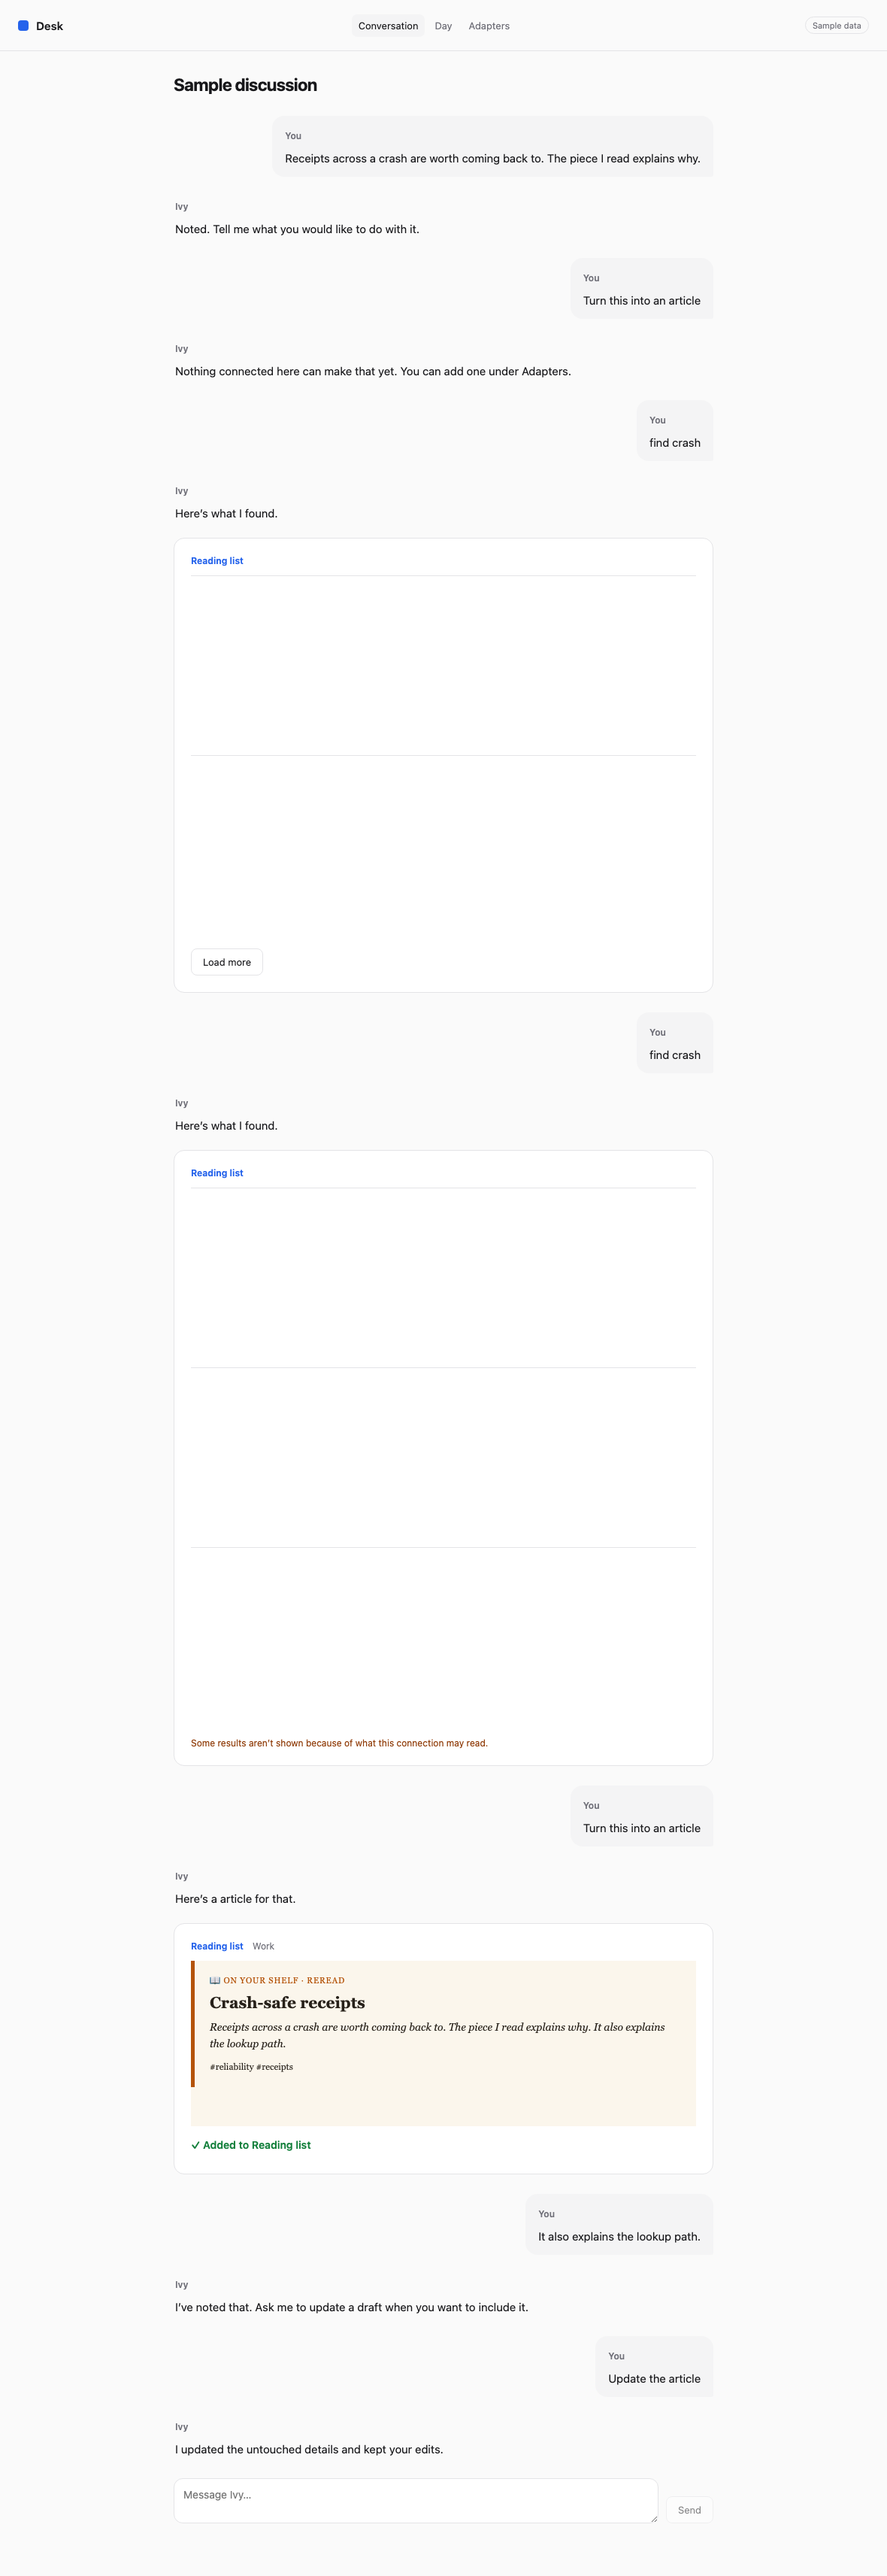
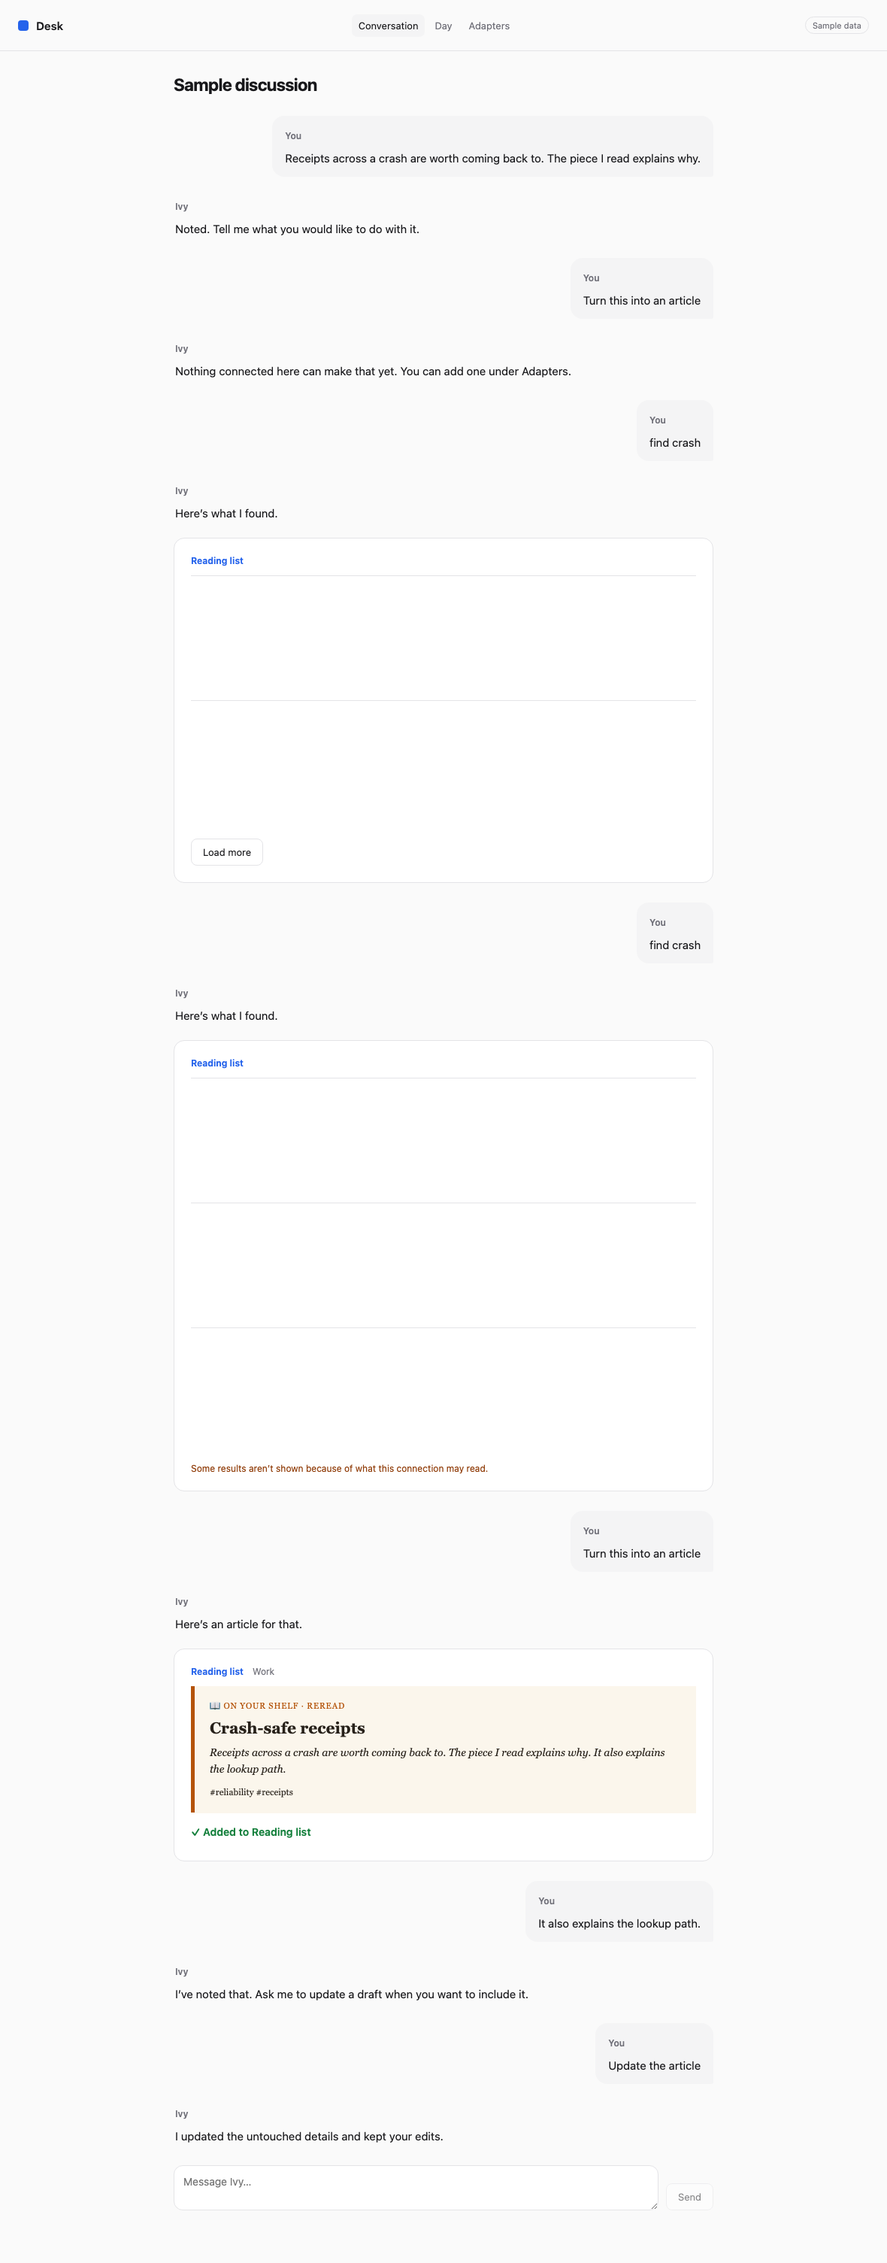
fix(prototype): show the safe rendering until a view answers, and size frames to content
Throwaway. Refs #3292. Generic shell behaviour plus a stricter per-frame probe.

diff --git a/scripts/probe-desk-extension.ts b/scripts/probe-desk-extension.ts
@@ -70,7 +70,12 @@ if (phase === "all" || phase === "a") {
   await page.locator('[data-group="sample.reading"] iframe').first().waitFor();
   await page.waitForTimeout(500);
   const customHeadings = await Promise.all((await adapterFrames("sample.reading")).map(frame => frame.locator("[data-custom-view]").count().catch(() => 0)));
-  check("query results render in the adapter's own sandboxed view", customHeadings.some(count => count > 0) && await page.locator('[data-rendered-by="adapter"]').count() === 2, customHeadings);
+  const frameHeights = await page.locator('[data-group="sample.reading"] iframe').evaluateAll(frames => frames.map(frame => frame.clientHeight));
+  check("every query result renders in the adapter's own sandboxed view", customHeadings.length === 2 && customHeadings.every(count => count === 1) && await page.locator('[data-rendered-by="adapter"]').count() === 2, customHeadings);
+  check("each frame sizes to its content", frameHeights.every(height => height > 60 && height < 220), frameHeights);
+  await page.locator('[data-group="sample.reading"]').last().scrollIntoViewIfNeeded();
+  await page.waitForTimeout(200);
+  await page.locator('[data-group="sample.reading"]').last().screenshot({ path: join(output, "query-custom-view-card.png") });
   check("frame is sandboxed without same-origin", (await page.locator('[data-group="sample.reading"] iframe').first().getAttribute("sandbox")) === "allow-scripts");
   await shot("query-custom-view");
   await pane("Adapters");
@@ -107,6 +112,9 @@ if (phase === "all" || phase === "a") {
   await approve.dblclick();
   await card.locator('[data-rendered-by="adapter"]').waitFor({ timeout: 5000 });
   await page.waitForTimeout(500);
+  await card.scrollIntoViewIfNeeded();
+  await page.waitForTimeout(200);
+  await card.screenshot({ path: join(output, "saved-custom-view-card.png") });
   check("double approval produces one owner call", (await diagnostics()).ownerCalls === 1, (await diagnostics()).ownerCalls);
   check("saved result renders the owner's readback in the adapter's own view", (await page.frames().some(frame => frame !== page.mainFrame())) && await card.locator('[data-rendered-by="adapter"] iframe').getAttribute("data-frame-state") === "ready");
   check("host-owned confirmation shows the saved state", (await card.textContent())?.includes("Added to Reading list") === true);
@@ -192,6 +200,9 @@ if (phase === "all" || phase === "b") {
   await repair.locator('[data-rendered-by="adapter"] iframe[data-frame-state="ready"]').waitFor({ timeout: 5000 });
   check("the second adapter saves and shows its own different view", (await repair.textContent())?.includes("Added to Workshop") === true);
   await page.waitForTimeout(400);
+  await repair.scrollIntoViewIfNeeded();
+  await page.waitForTimeout(200);
+  await repair.screenshot({ path: join(output, "second-saved-card.png") });
   await shot("second-saved");
 
   await bringUp("tide-tables");
@@ -236,6 +247,7 @@ if (phase === "all" || phase === "b") {
   for (const sample of ["crashing-view", "hostile-view"]) await bringUp(sample);
   const ownerCallsBeforeHostile = (await diagnostics()).ownerCalls;
   await say("find Prop");
+  check("a view that has not answered yet shows the safe host rendering, not a blank box", (await page.locator('[data-group="sample.crash"]').last().textContent())?.includes("Prop from Crashing view") === true);
   await page.waitForTimeout(3200);
   const groups = page.locator('[data-group^="sample.crash"], [data-group^="sample.hostile"]');
   check("a crashing or hostile view falls back to the safe host rendering", await groups.count() >= 2 && await page.locator('[data-group="sample.crash"] [data-rendered-by="host"]').count() > 0 && await page.locator('[data-group="sample.hostile"] [data-rendered-by="host"]').count() > 0, await groups.allTextContents());

diff --git a/src/surface/mc/dashboard-v2/desk-extension-prototype-main.tsx b/src/surface/mc/dashboard-v2/desk-extension-prototype-main.tsx
@@ -10,7 +10,7 @@ const FRAME_READY_MS = 2500;
 const MAX_FRAME_HEIGHT = 640;
 const FRAME_MESSAGE_TYPES = new Set(["ready", "resize", "renderer:error", "host:navigate"]);
 
-function AdapterFrame({ entry, projection, onFail, run }: { entry: any; projection: unknown; onFail: (reason: string) => void; run: Run }) {
+function AdapterFrame({ entry, projection, onFail, onReady, run }: { entry: any; projection: unknown; onFail: (reason: string) => void; onReady: () => void; run: Run }) {
   const frame = useRef<HTMLIFrameElement>(null);
   const [height, setHeight] = useState(220);
   const [state, setState] = useState("mounting");
@@ -29,7 +29,7 @@ function AdapterFrame({ entry, projection, onFail, run }: { entry: any; projecti
       if (!data || data.instance !== instance || data.release !== entry.releaseDigest || data.protocol !== PROTOCOL || !FRAME_MESSAGE_TYPES.has(type)) { clearTimeout(timer); fail(`forged-or-unknown:${type}`); return; }
       if (type === "ready") {
         if (ready) { fail("duplicate-ready"); return; }
-        ready = true; clearTimeout(timer); setState("ready");
+        ready = true; clearTimeout(timer); setState("ready"); onReady();
         channel.port1.postMessage({ type: "host:projection", ...identity, projection, theme: matchMedia("(prefers-color-scheme: dark)").matches ? "dark" : "light" });
       } else if (type === "resize" && typeof data.height === "number") setHeight(Math.min(Math.max(data.height, 60), MAX_FRAME_HEIGHT));
       else if (type === "renderer:error") fail("renderer-error");
@@ -38,7 +38,7 @@ function AdapterFrame({ entry, projection, onFail, run }: { entry: any; projecti
     channel.port1.start();
     target.postMessage({ type: "desk:init", ...identity }, "*", [channel.port2]);
   };
-  return <iframe ref={frame} data-frame-state={state} data-adapter={entry.adapterId} title="Adapter view" sandbox="allow-scripts" referrerPolicy="no-referrer" src={entry.src} onLoad={load} style={{ width: "100%", height, border: 0, display: "block" }} />;
+  return <iframe ref={frame} data-frame-state={state} data-adapter={entry.adapterId} title="Adapter view" sandbox="allow-scripts" referrerPolicy="no-referrer" src={entry.src} onLoad={load} style={{ width: "100%", height: state === "ready" ? height : 0, border: 0, display: "block" }} />;
 }
 
 function viewFor(view: View, adapterId: string, objectType: string): any {
@@ -48,9 +48,9 @@ function viewFor(view: View, adapterId: string, objectType: string): any {
 
 function ObjectResult({ view, adapterId, objectType, object, objectRef, fallback, run }: { view: View; adapterId: string; objectType: string; object: unknown; objectRef: unknown; fallback: React.ReactNode; run: Run }) {
   const entry = viewFor(view, adapterId, objectType);
-  const [failed, setFailed] = useState(false);
-  if (!entry || failed) return <div data-rendered-by="host">{fallback}</div>;
-  return <div data-rendered-by="adapter"><AdapterFrame entry={entry} projection={{ view: "result", objectType, object, ref: objectRef }} onFail={() => { setFailed(true); }} run={run} /></div>;
+  const [phase, setPhase] = useState<"waiting" | "ready" | "failed">("waiting");
+  if (!entry || phase === "failed") return <div data-rendered-by="host">{fallback}</div>;
+  return <div data-rendered-by={phase === "ready" ? "adapter" : "host-until-ready"}>{phase === "waiting" && fallback}<AdapterFrame entry={entry} projection={{ view: "result", objectType, object, ref: objectRef }} onFail={() => { setPhase("failed"); }} onReady={() => { setPhase("ready"); }} run={run} /></div>;
 }
 
 const display = (value: unknown, draft: any): string => {

diff --git a/src/conversations/domain-adapters/extension-prototype/host.ts b/src/conversations/domain-adapters/extension-prototype/host.ts
@@ -29,6 +29,7 @@ const refKey = (ref: ObjectReference): string => `${ref.adapterId}|${ref.connect
 const isReference = (value: Json): value is ObjectReference => !!value && typeof value === "object" && "canonicalId" in value;
 const sha = (value: string): string => createHash("sha256").update(value).digest("hex");
 const iso = (): string => new Date().toISOString();
+const withArticle = (noun: string): string => `${/^[aeiou]/i.test(noun) ? "an" : "a"} ${noun}`;
 const STALE_AFTER_MS = 10 * 60_000;
 const DEFAULT_PAGE_TIMEOUT_MS = 10_000;
 
@@ -248,7 +249,7 @@ export class ExtensionHost {
     if (!matches.length) { this.say("Ivy", "Nothing connected here can make that yet. You can add one under Adapters."); return; }
     const withAction = matches.flatMap(match => { const capability = match.pkg.manifest.declaration.capabilities.find(entry => entry.kind === "action" && entry.objectTypes.includes(match.objectType)); return capability ? [{ ...match, capabilityId: capability.capabilityId }] : []; });
     const chosen = withAction[0];
-    if (!chosen) { const match = matches[0]; this.say("Ivy", `${match?.pkg.manifest.declaration.label ?? "That"} can be read here, but it can’t make a ${match?.label.toLowerCase() ?? "new one"} from a conversation.`); return; }
+    if (!chosen) { const match = matches[0]; this.say("Ivy", `${match?.pkg.manifest.declaration.label ?? "That"} can be read here, but it can’t make ${match ? withArticle(match.label.toLowerCase()) : "a new one"} from a conversation.`); return; }
     if (withAction.length > 1) { this.say("Ivy", `More than one connected source has a ${chosen.label.toLowerCase()}. Which did you mean: ${withAction.map(entry => entry.pkg.manifest.declaration.label).join(" or ")}?`); return; }
     const adapterId = chosen.pkg.manifest.declaration.adapterId;
     if (!this.live(adapterId)) { this.say("Ivy", `${chosen.pkg.manifest.declaration.label} isn’t connected yet. You can connect it under Adapters.`); return; }
@@ -259,7 +260,7 @@ export class ExtensionHost {
     const generated = this.generate(chosen.pkg, binding, spec, [], {});
     const draft: Draft = { id: randomUUID(), adapterId, adapterLabel: chosen.pkg.manifest.declaration.label, objectLabel: chosen.label, objectType: chosen.objectType, capabilityId: chosen.capabilityId, inputSchemaRef, spec, fields: generated.fields, edited: [], revision: 1, status: "proposed", stale: false, alternatives: generated.alternatives, automatic: !!binding, origins: generated.origins };
     this.state.drafts[draft.id] = draft;
-    this.say("Ivy", binding ? `Here’s a ${chosen.label.toLowerCase()} for that.` : `I can’t draft this one for you, but you can fill in the ${chosen.label.toLowerCase()} yourself.`, { kind: "draft", id: draft.id });
+    this.say("Ivy", binding ? `Here’s ${withArticle(chosen.label.toLowerCase())} for that.` : `I can’t draft this one for you, but you can fill in the ${chosen.label.toLowerCase()} yourself.`, { kind: "draft", id: draft.id });
   }
 
   private async refreshDraft(text: string): Promise<void> {

diff --git a/docs/prototypes/desk-extension/packages/duplicate-identity/view.js b/docs/prototypes/desk-extension/packages/duplicate-identity/view.js
@@ -14,7 +14,7 @@ const render = ({ projection, theme }) => {
   put(card, "h1", object.title, "font-size:21px;line-height:1.3;margin:8px 0");
   if (object.summary) put(card, "p", object.summary, "margin:0 0 10px;font-style:italic");
   if (object.tags?.length) put(card, "div", object.tags.map(tag => `#${tag}`).join("  "), "font-size:12px");
-  send("resize", { height: Math.ceil(document.documentElement.scrollHeight) });
+  send("resize", { height: Math.ceil(root.getBoundingClientRect().height) });
 };
 window.addEventListener("message", event => {
   if (event.source !== parent || port || event.data?.type !== "desk:init" || event.data.protocol !== "1.0.0" || event.ports.length !== 1) return;

diff --git a/docs/prototypes/desk-extension/packages/reading-list/view.js b/docs/prototypes/desk-extension/packages/reading-list/view.js
@@ -14,7 +14,7 @@ const render = ({ projection, theme }) => {
   put(card, "h1", object.title, "font-size:21px;line-height:1.3;margin:8px 0");
   if (object.summary) put(card, "p", object.summary, "margin:0 0 10px;font-style:italic");
   if (object.tags?.length) put(card, "div", object.tags.map(tag => `#${tag}`).join("  "), "font-size:12px");
-  send("resize", { height: Math.ceil(document.documentElement.scrollHeight) });
+  send("resize", { height: Math.ceil(root.getBoundingClientRect().height) });
 };
 window.addEventListener("message", event => {
   if (event.source !== parent || port || event.data?.type !== "desk:init" || event.data.protocol !== "1.0.0" || event.ports.length !== 1) return;

diff --git a/docs/prototypes/desk-extension/views/reading-view.js b/docs/prototypes/desk-extension/views/reading-view.js
@@ -14,7 +14,7 @@ const render = ({ projection, theme }) => {
   put(card, "h1", object.title, "font-size:21px;line-height:1.3;margin:8px 0");
   if (object.summary) put(card, "p", object.summary, "margin:0 0 10px;font-style:italic");
   if (object.tags?.length) put(card, "div", object.tags.map(tag => `#${tag}`).join("  "), "font-size:12px");
-  send("resize", { height: Math.ceil(document.documentElement.scrollHeight) });
+  send("resize", { height: Math.ceil(root.getBoundingClientRect().height) });
 };
 window.addEventListener("message", event => {
   if (event.source !== parent || port || event.data?.type !== "desk:init" || event.data.protocol !== "1.0.0" || event.ports.length !== 1) return;

diff --git a/docs/prototypes/desk-extension/packages/workshop/view.js b/docs/prototypes/desk-extension/packages/workshop/view.js
@@ -19,7 +19,7 @@ const render = ({ projection }) => {
   if (object.hours !== undefined) put(facts, "span", `⏱ ${object.hours} h`);
   if (object.neededBy) put(facts, "span", `by ${object.neededBy}`);
   if (object.parts?.length) put(facts, "span", `parts: ${object.parts.join(", ")}`);
-  send("resize", { height: Math.ceil(document.documentElement.scrollHeight) });
+  send("resize", { height: Math.ceil(root.getBoundingClientRect().height) });
 };
 window.addEventListener("message", event => {
   if (event.source !== parent || port || event.data?.type !== "desk:init" || event.data.protocol !== "1.0.0" || event.ports.length !== 1) return;

diff --git a/docs/prototypes/desk-extension/views/workshop-view.js b/docs/prototypes/desk-extension/views/workshop-view.js
@@ -19,7 +19,7 @@ const render = ({ projection }) => {
   if (object.hours !== undefined) put(facts, "span", `⏱ ${object.hours} h`);
   if (object.neededBy) put(facts, "span", `by ${object.neededBy}`);
   if (object.parts?.length) put(facts, "span", `parts: ${object.parts.join(", ")}`);
-  send("resize", { height: Math.ceil(document.documentElement.scrollHeight) });
+  send("resize", { height: Math.ceil(root.getBoundingClientRect().height) });
 };
 window.addEventListener("message", event => {
   if (event.source !== parent || port || event.data?.type !== "desk:init" || event.data.protocol !== "1.0.0" || event.ports.length !== 1) return;
